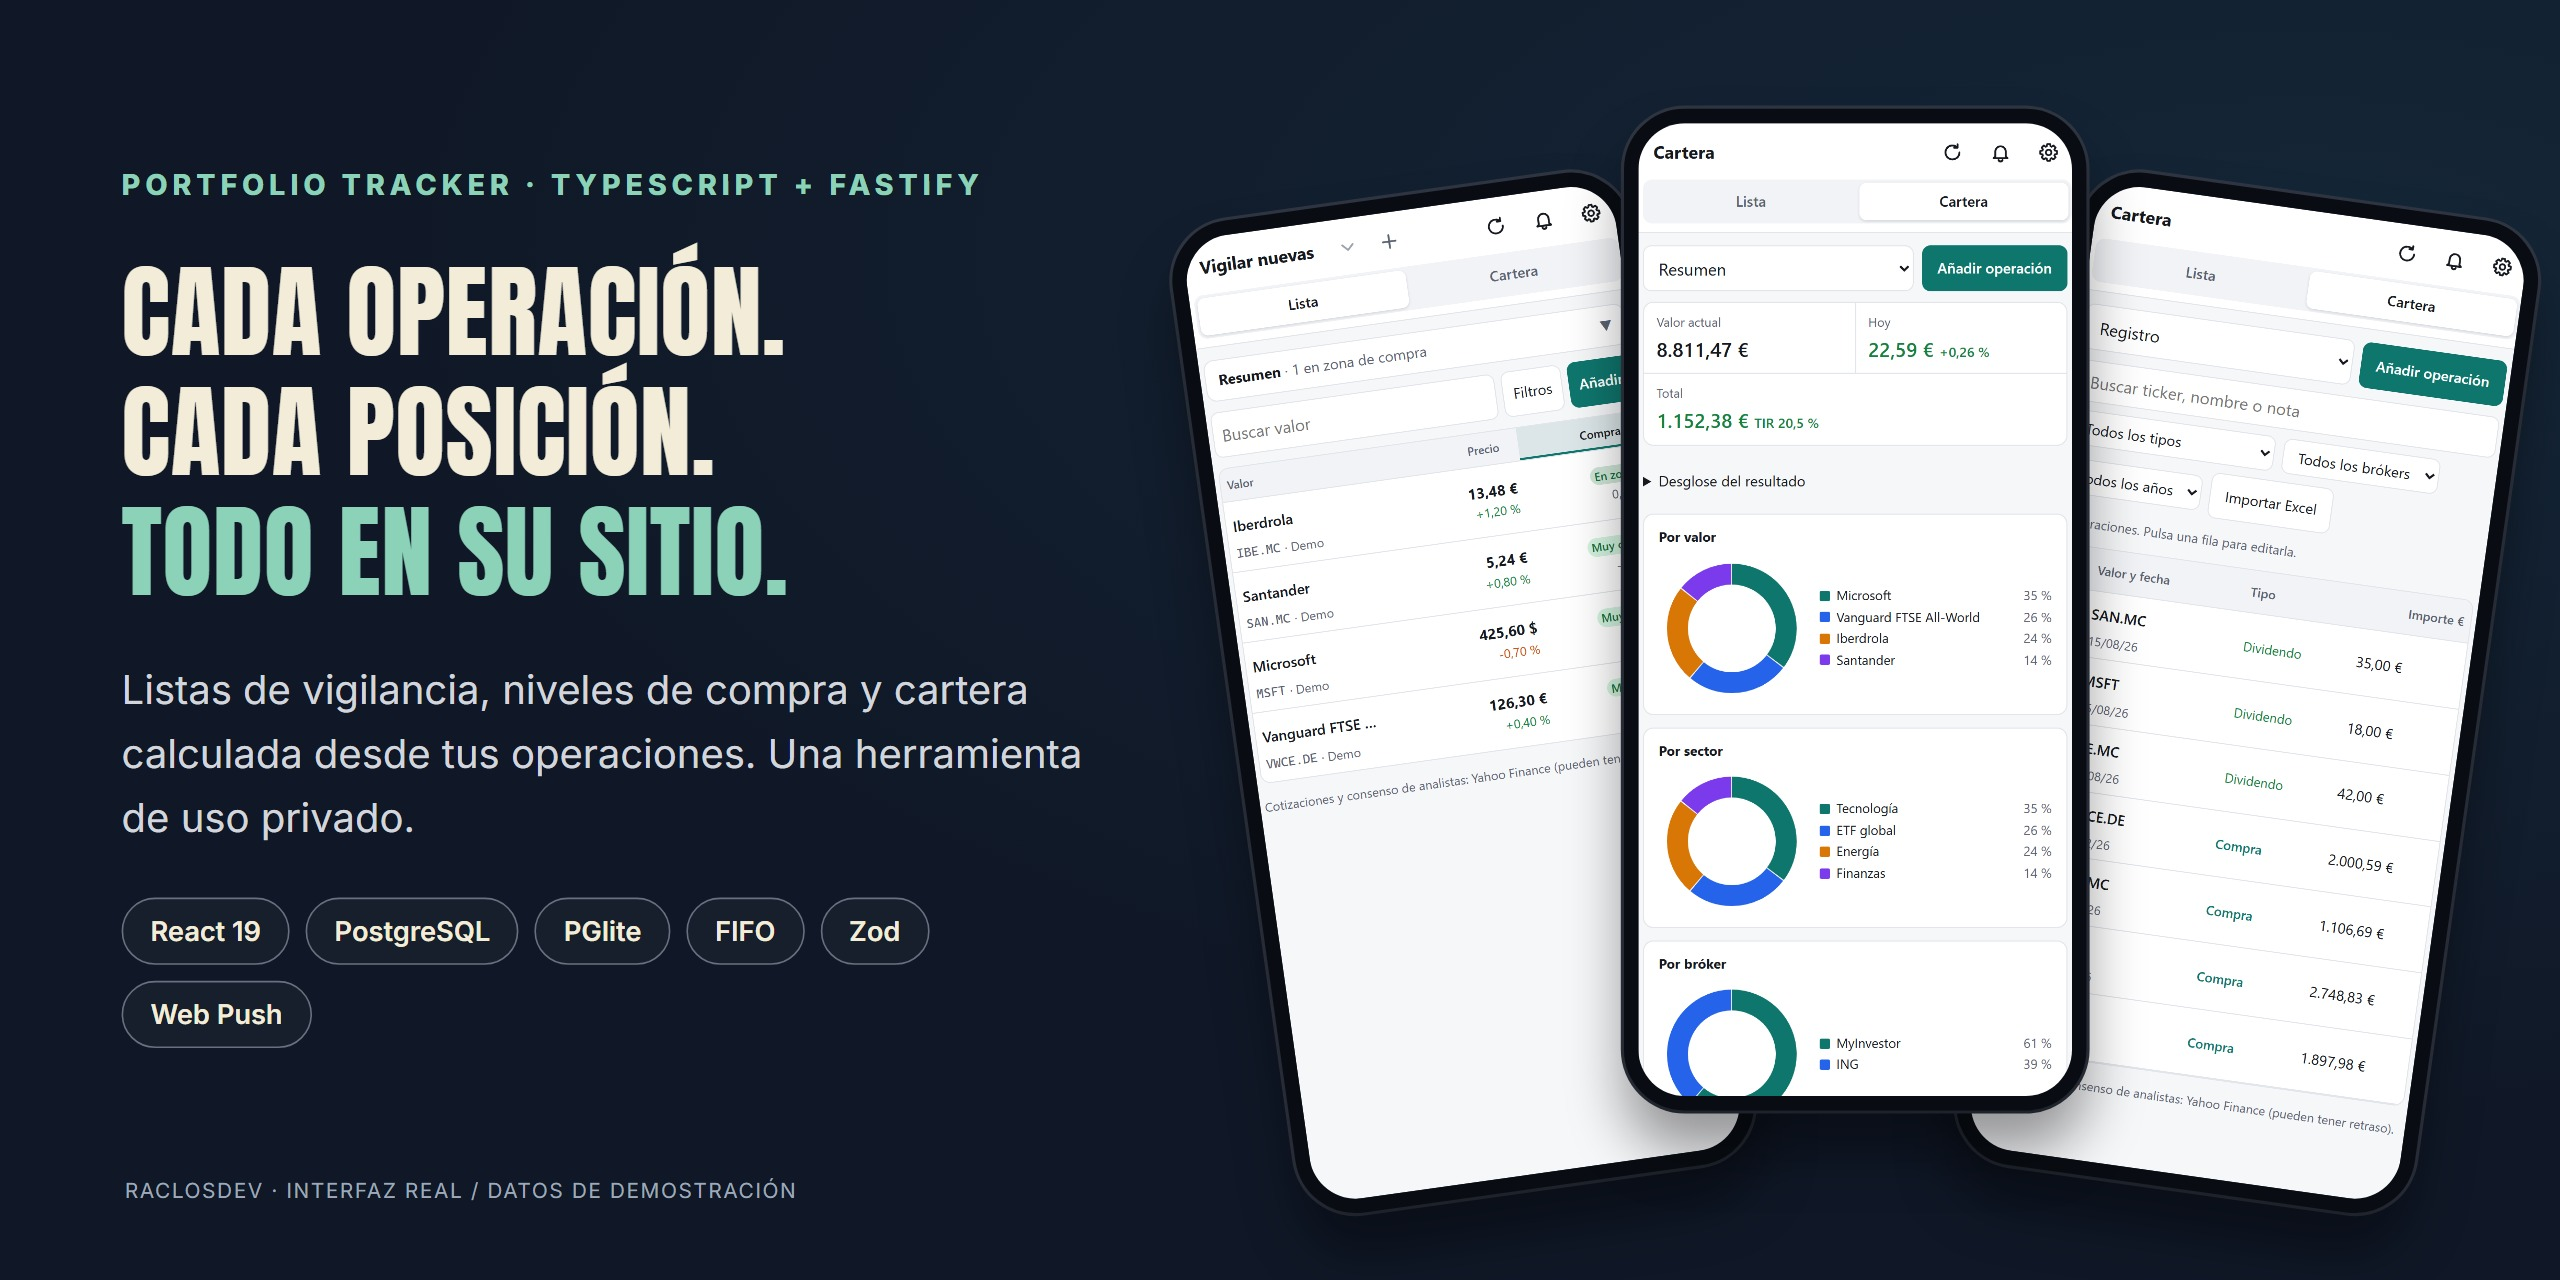
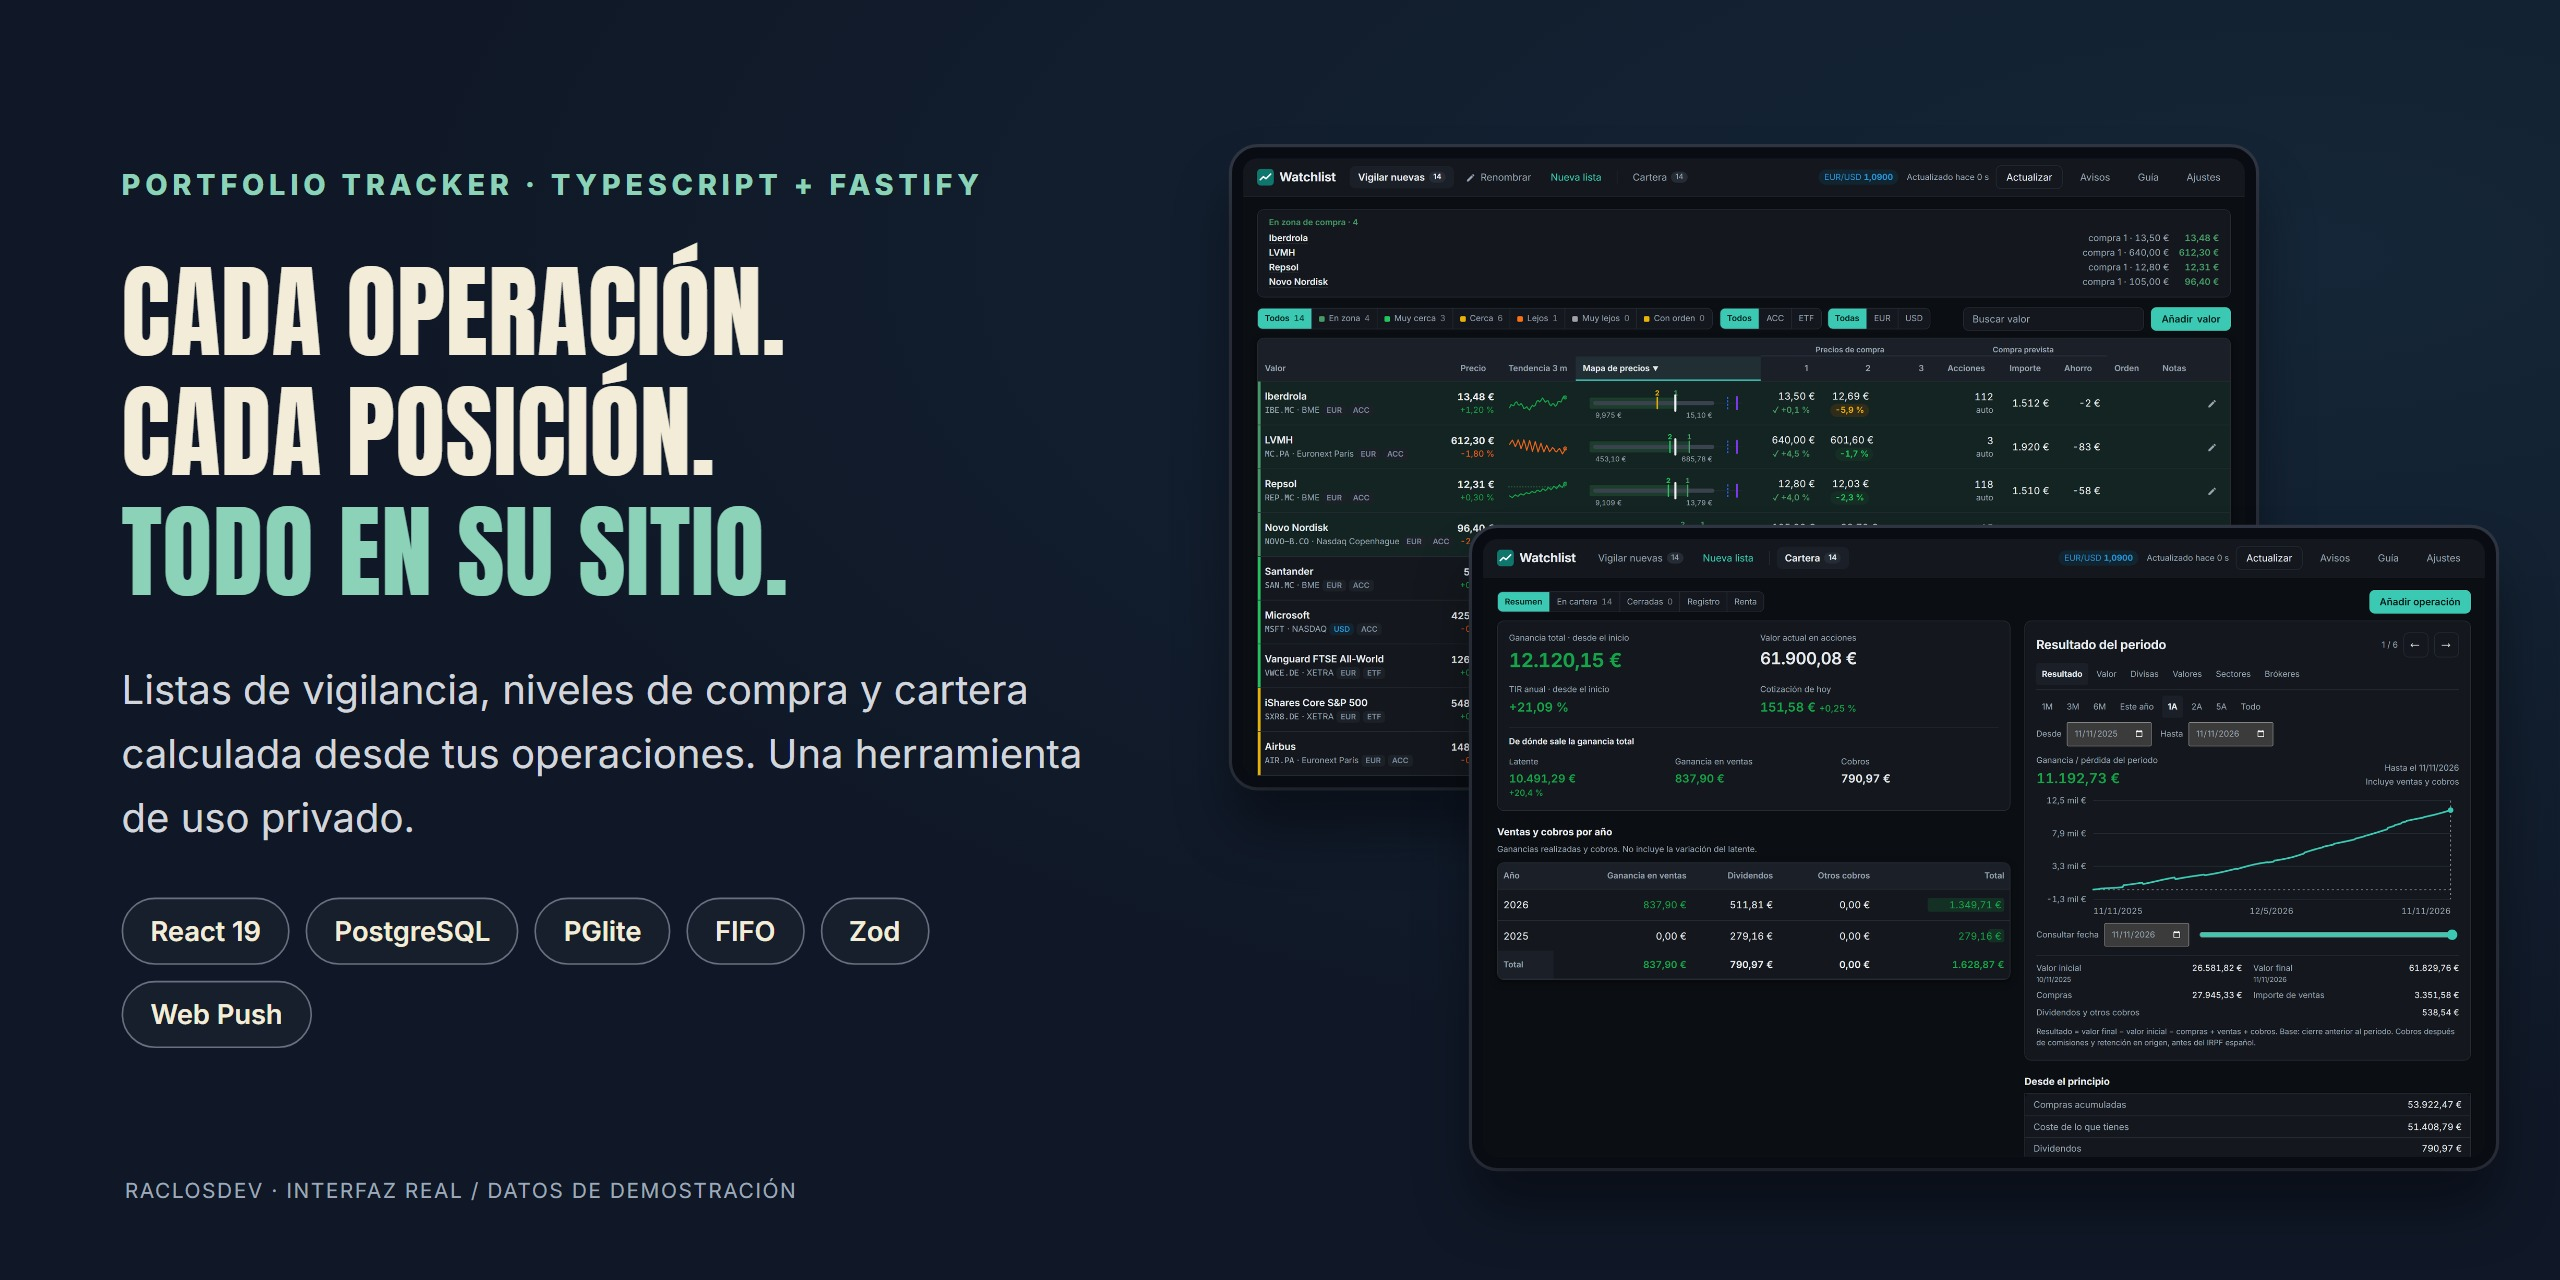
docs: README al día con las capturas nuevas
Incluye: #42

diff --git a/README.md b/README.md
@@ -18,18 +18,16 @@
 
 <table>
   <tr>
-    <td align="center"><strong>Lista de vigilancia</strong></td>
-    <td align="center"><strong>Resumen de cartera</strong></td>
-    <td align="center"><strong>Registro de operaciones</strong></td>
+    <td align="center" width="50%"><picture><source media="(prefers-color-scheme: dark)" srcset="docs/screenshots/watchlist-dark.png"><img src="docs/screenshots/watchlist-light.png" alt="Lista de vigilancia con precios, niveles de compra y distancia a cada nivel" width="440"></picture><br><sub><b>Lista de vigilancia</b> · niveles de compra y distancia</sub></td>
+    <td align="center" width="50%"><picture><source media="(prefers-color-scheme: dark)" srcset="docs/screenshots/portfolio-dark.png"><img src="docs/screenshots/portfolio-light.png" alt="Resumen de una cartera de ejemplo con su evolución y totales" width="440"></picture><br><sub><b>Cartera</b> · evolución, rentabilidad y totales</sub></td>
   </tr>
   <tr>
-    <td><img src="docs/screenshots/watchlist-mobile.png" alt="Lista con distancias a los niveles de compra" width="260"></td>
-    <td><img src="docs/screenshots/portfolio-mobile.png" alt="Resumen y distribución de una cartera de ejemplo" width="260"></td>
-    <td><img src="docs/screenshots/operations-mobile.png" alt="Registro filtrable de compras y dividendos" width="260"></td>
+    <td align="center"><picture><source media="(prefers-color-scheme: dark)" srcset="docs/screenshots/positions-dark.png"><img src="docs/screenshots/positions-light.png" alt="Posiciones abiertas de la cartera con precio medio, valor y resultado" width="440"></picture><br><sub><b>Posiciones</b> · precio medio, valor y resultado</sub></td>
+    <td align="center"><picture><source media="(prefers-color-scheme: dark)" srcset="docs/screenshots/operations-dark.png"><img src="docs/screenshots/operations-light.png" alt="Registro filtrable de compras, ventas y dividendos" width="440"></picture><br><sub><b>Registro</b> · compras, ventas y dividendos</sub></td>
   </tr>
 </table>
 
-Capturas de la interfaz real con datos ficticios reproducibles. No representan una cuenta, cotizaciones actuales ni resultados de inversión. Cada usuario dispone de listas, cartera y ajustes privados.
+Capturas de la interfaz real en escritorio, renovadas en noviembre de 2026; se muestran en claro u oscuro según el tema de GitHub. Los datos son ficticios y reproducibles: no representan una cuenta, cotizaciones actuales ni resultados de inversión. Cada usuario dispone de listas, cartera y ajustes privados.
 
 ## Decisiones técnicas que puedes revisar
 
@@ -37,7 +35,7 @@ Capturas de la interfaz real con datos ficticios reproducibles. No representan u
 | --- | --- | --- |
 | Compartir reglas entre API e interfaz | Monorepo TypeScript con esquemas Zod y funciones de cálculo compartidas | [`packages/shared`](packages/shared/src) |
 | Reconstruir posiciones desde operaciones | Cálculo de lotes FIFO separado de la presentación, con pruebas de dominio | [`ledger.ts`](packages/shared/src/cartera/ledger.ts), [`ledger.test.ts`](packages/shared/src/cartera/ledger.test.ts) |
-| Trabajar con datos de mercado externos | Proveedor aislado, caché y tratamiento de fallos en el servicio de mercado | [`modules/market`](apps/server/src/modules/market) |
+| Trabajar con datos de mercado externos | Cinco fuentes en cadena tras una misma interfaz, con caché y pausa propia ante límites de consultas | [`modules/market`](apps/server/src/modules/market) |
 | Recuperar una cartera tras una importación | Copias automáticas y servicio de restauración | [`backup.service.ts`](apps/server/src/modules/backup/backup.service.ts) |
 | Separar los datos de cada usuario | Registro con correo y contraseña o Google, sesiones revocables y un esquema de datos por cuenta | [`modules/auth`](apps/server/src/modules/auth) |
 | Desarrollar sin instalar un servidor de base de datos | PostgreSQL en producción y PGlite en desarrollo y pruebas | [`database.ts`](apps/server/src/db/database.ts) |
@@ -65,7 +63,7 @@ La [CI](.github/workflows/desplegar.yml) comprueba tipos, pruebas y compilación
 
 ## Fuentes de cotización
 
-Se consulta Yahoo Finance y, para los valores sin precio y con cobertura alternativa, Borsa Italiana / FIDA y después Quefondos / VDOS. Si ninguna responde, se muestra el último precio guardado como tal. Cada proveedor tiene su propia pausa ante límites de consultas.
+Se consulta Yahoo Finance y, para los valores sin precio y con cobertura alternativa, Borsa Italiana / FIDA, Quefondos / VDOS, onvista (bolsas alemanas como Xetra o Tradegate) y FT Markets, en ese orden. El buscador por nombre combina los catálogos de onvista y Euronext. Si ninguna responde, se muestra el último precio guardado como tal. Cada proveedor tiene su propia pausa ante límites de consultas.
 
 Borsa aporta el último valor liquidativo de fondos, con su fecha e ISIN; no proporciona una serie histórica desde esa ficha. Se puede buscar el nombre de la clase en «Cotización automática» y elegir el resultado de Borsa. Los identificadores `BORSA:2FADB…` se guardan sin necesitar claves de API. Como su buscador no indexa todos los ISIN, los vínculos verificados por ISIN están en `borsa.provider.ts` y se comprueban contra la ficha en cada actualización. No hay cobertura universal ni conversión automática entre clases de un fondo.
 

diff --git a/docs/screenshots/README.md b/docs/screenshots/README.md
@@ -2,7 +2,7 @@
 
 Interfaz React real con datos sintéticos de demostración. Los nombres de valores son reconocibles, pero los precios, operaciones y resultados son ficticios; no proceden de una cuenta ni representan cotizaciones actuales.
 
-Se capturan la lista de vigilancia, el resumen de cartera y el registro de operaciones a 430 × 932 píxeles CSS (densidad 2×). El script bloquea conexiones externas y cualquier petición API no prevista. No necesita backend, base de datos ni credenciales.
+Se capturan la lista de vigilancia, el resumen de cartera, las posiciones y el registro de operaciones en escritorio, a 1440 × 900 píxeles CSS con densidad 2×, en tema claro y oscuro (`<pantalla>-light.png` y `<pantalla>-dark.png`). Las imágenes publicadas están reducidas a 1920 × 1200. El script bloquea conexiones externas y cualquier petición API no prevista. No necesita backend, base de datos ni credenciales.
 
 Con Node.js 24 y las dependencias del proyecto instaladas:
 
@@ -15,9 +15,10 @@ npm run dev -w @watchlist/web -- --host 127.0.0.1
 En otra terminal, desde la raíz:
 
 ```bash
-node docs/screenshots/capture.mjs http://127.0.0.1:5173
+node docs/screenshots/capture.mjs http://127.0.0.1:5173 light
+node docs/screenshots/capture.mjs http://127.0.0.1:5173 dark
 ```
 
-Si Playwright ya está instalado en otro proyecto, `PLAYWRIGHT_PACKAGE_JSON` puede apuntar a su `package.json`. El script comprueba que la interfaz está lista, que no hay errores JavaScript ni desbordamiento horizontal. La tipografía sigue la pila de sistema de la aplicación; no se inyectan fuentes ni estilos de producto.
+Si Playwright ya está instalado en otro proyecto, `PLAYWRIGHT_PACKAGE_JSON` puede apuntar a su `package.json`. El script comprueba que la interfaz está lista, que no hay errores JavaScript ni desbordamiento horizontal. La tipografía es la Inter que incluye la aplicación; no se inyectan fuentes ni estilos de producto.
 
-La composición `hero.jpg` reutiliza estas capturas. Su generador y las fuentes comunes están en [RaclosDev/scripts](https://github.com/RaclosDev/RaclosDev/tree/main/scripts).
+La composición `hero.jpg` reutiliza las capturas en tema oscuro. Su generador y las fuentes comunes están en [RaclosDev/scripts](https://github.com/RaclosDev/RaclosDev/tree/main/scripts).
